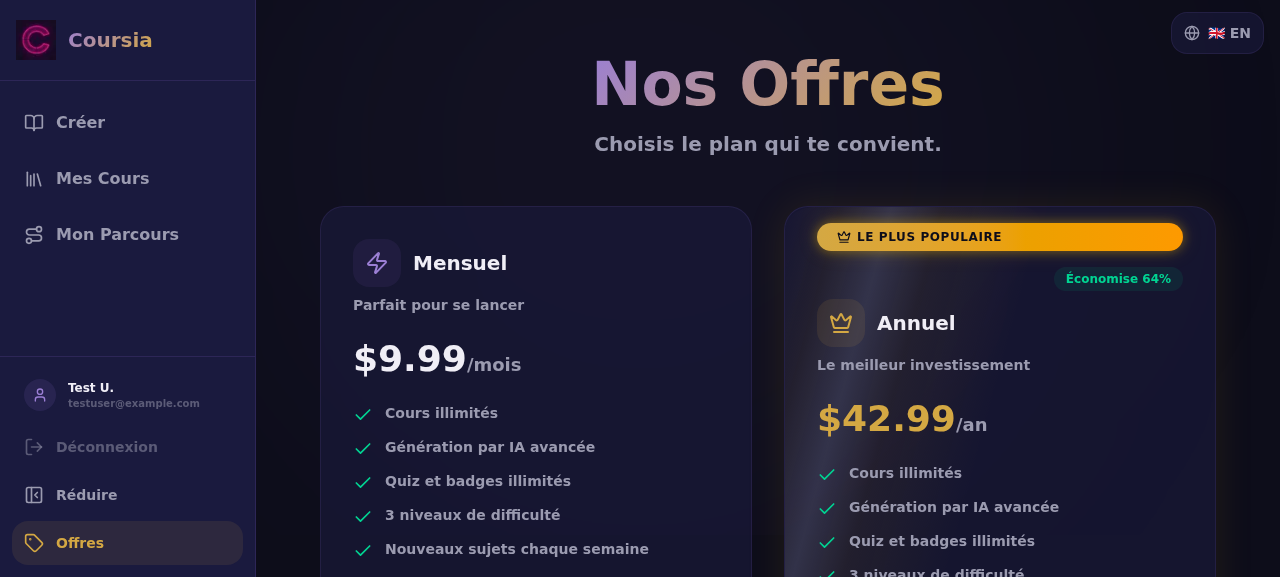
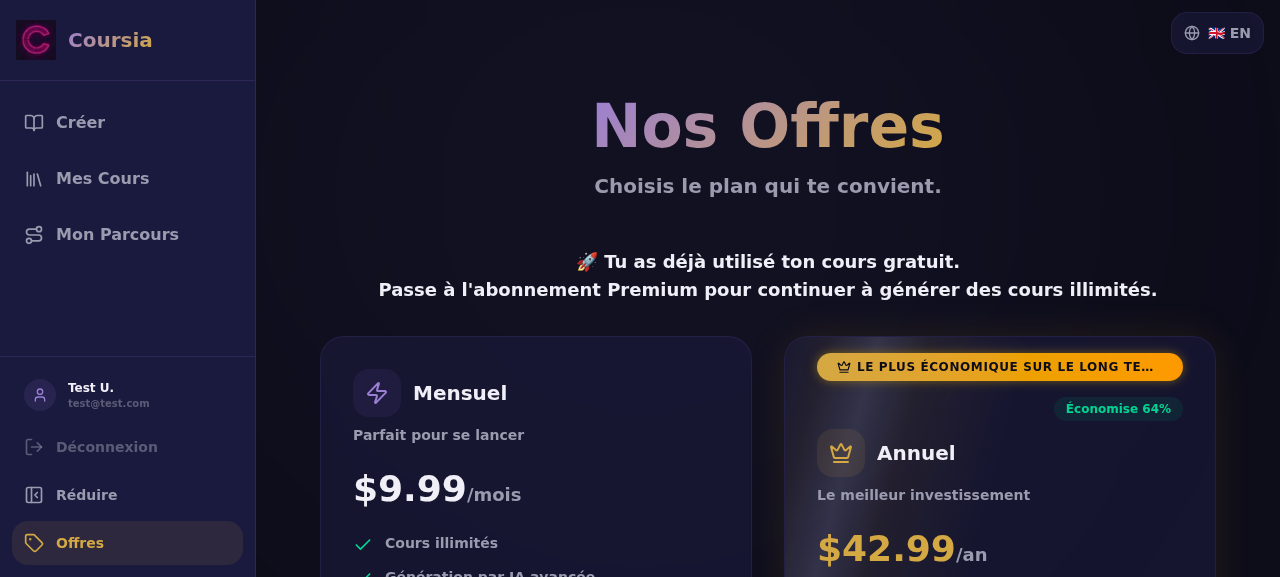
065ebc49-44c9-4ba2-8691-90631a6a6888

diff --git a/src/components/coursia/CourseViewer.tsx b/src/components/coursia/CourseViewer.tsx
@@ -363,30 +363,29 @@ export default function CourseViewer() {
     if (currentChapterIndex >= course.chapters.length - 1) return;
 
     isCompletingRef.current = true;
-    setIsCompleting(true);
     const wasJustCompleted = !currentChapter?.progress?.completed;
     const nextIdx = currentChapterIndex + 1;
 
-    // Advance to next chapter immediately so the UI updates on the first click
+    // Navigate IMMEDIATELY — no delay, animation fires on this render
     setCurrentChapterIndex(nextIdx);
-
-    // Complete the previous chapter in the background (don't block navigation)
-    if (wasJustCompleted) {
-      const success = await completeCurrentChapter();
-      if (success) {
-        const userName = user?.firstName || (lang === "fr" ? "Champion" : "Champion");
-        setShowConfetti(true);
-        setShowCelebration(true);
-        setCelebrationMessage(lang === "fr" ? `Chapitre ${currentChapterIndex + 1} terminé ${userName} ! 🎉` : `Chapter ${currentChapterIndex + 1} done ${userName}! 🎉`);
-        if (celebrationTimerRef.current) clearTimeout(celebrationTimerRef.current);
-        celebrationTimerRef.current = setTimeout(() => { setShowCelebration(false); setShowConfetti(false); }, 2000);
-      }
-    }
-
     endStudySession();
     startStudySession(course.id, course.chapters[nextIdx]?.id);
+
+    // Complete the previous chapter entirely in the background (don't block UI)
+    if (wasJustCompleted) {
+      completeCurrentChapter().then((success) => {
+        if (success) {
+          const userName = user?.firstName || (lang === "fr" ? "Champion" : "Champion");
+          setShowConfetti(true);
+          setShowCelebration(true);
+          setCelebrationMessage(lang === "fr" ? `Chapitre ${currentChapterIndex + 1} terminé ${userName} ! 🎉` : `Chapter ${currentChapterIndex + 1} done ${userName}! 🎉`);
+          if (celebrationTimerRef.current) clearTimeout(celebrationTimerRef.current);
+          celebrationTimerRef.current = setTimeout(() => { setShowCelebration(false); setShowConfetti(false); }, 2000);
+        }
+      }).catch(() => { /* non-critical */ });
+    }
+
     isCompletingRef.current = false;
-    setIsCompleting(false);
   }, [course, currentChapter?.progress?.completed, currentChapterIndex, completeCurrentChapter, user?.firstName, lang, endStudySession, startStudySession, setCurrentChapterIndex]);
 
   // ── Complete last chapter of a level → show level quiz → celebration + level-up prompt ──
@@ -543,8 +542,20 @@ export default function CourseViewer() {
         headers: { "Content-Type": "application/json" },
         body: JSON.stringify({ level: nextLevel }),
       });
+
+      if (!res.ok) {
+        const data = await res.json().catch(() => ({}));
+        if (data.error === "SUBSCRIPTION_REQUIRED" || data.requiresSubscription) {
+          // Redirect to offers page for subscription
+          setShowReviewScreen(false);
+          setView("offers");
+          return;
+        }
+        throw new Error(data.error || "Failed to generate level");
+      }
+
       const data = await res.json();
-      if (res.ok && data.chapters?.length > 0) {
+      if (data.chapters?.length > 0) {
         // Refetch course to get updated chapters
         const courseRes = await fetch(`/api/courses/${selectedCourseId}`);
         if (courseRes.ok) {
@@ -560,7 +571,7 @@ export default function CourseViewer() {
     } finally {
       setIsGeneratingLevel(false);
     }
-  }, [course, selectedCourseId, maxUnlockedLevel, setCurrentChapterIndex]);
+  }, [course, selectedCourseId, maxUnlockedLevel, setCurrentChapterIndex, setView]);
 
   // ── Stop at current level ──
   const handleStopHere = useCallback(async () => {
@@ -974,7 +985,7 @@ export default function CourseViewer() {
                 </div>
               </div>
               <button onClick={goToPrev} disabled={currentChapterIndex === 0 || isCompleting} className="p-2 rounded-xl hover:bg-white/10 transition-all disabled:opacity-30 cursor-pointer"><ChevronLeft className="w-5 h-5" /></button>
-              <button onClick={goToNext} disabled={currentChapterIndex === course.chapters.length - 1 || isCompleting} className="p-2 rounded-xl hover:bg-white/10 transition-all disabled:opacity-30 cursor-pointer"><ChevronRight className="w-5 h-5" /></button>
+              <button onClick={goToNext} disabled={currentChapterIndex === course.chapters.length - 1} className="p-2 rounded-xl hover:bg-white/10 transition-all disabled:opacity-30 cursor-pointer"><ChevronRight className="w-5 h-5" /></button>
             </div>
           </div>
           <div className="flex-1 overflow-y-auto">
@@ -988,7 +999,7 @@ export default function CourseViewer() {
                   <p className="text-lg text-foreground/80 leading-relaxed">{currentChapter.summary}</p>
                 </div>
               )}
-              <div key={`fs-chapter-${currentChapter.id}-${currentChapterIndex}`} className="prose prose-invert max-w-none text-[18px] leading-8 animate-fade-in-slide-right prose-p:text-[1.175rem] prose-p:leading-[2] prose-p:mb-6 prose-h2:text-[1.6rem] prose-h2:mt-12 prose-h2:mb-6 prose-h3:text-[1.4rem] prose-h3:mt-10 prose-h3:mb-5 prose-li:text-[1.175rem] prose-li:my-2 prose-li:leading-[2] prose-ul:my-6 prose-ol:my-6 prose-strong:text-gold prose-hr:border-gold/20 prose-hr:my-12">
+              <div key={`fs-chapter-${currentChapter.id}-${currentChapterIndex}`} className="prose prose-invert max-w-none text-[20px] leading-9 animate-fade-in-slide-right prose-p:text-[1.3rem] prose-p:leading-[2.1] prose-p:mb-6 prose-h2:text-[1.8rem] prose-h2:mt-12 prose-h2:mb-6 prose-h3:text-[1.6rem] prose-h3:mt-10 prose-h3:mb-5 prose-li:text-[1.3rem] prose-li:my-2 prose-li:leading-[2.1] prose-ul:my-6 prose-ol:my-6 prose-strong:text-gold prose-hr:border-gold/20 prose-hr:my-12">
                 <ReactMarkdown>{currentChapter.content || ""}</ReactMarkdown>
               </div>
             </div>
@@ -1252,13 +1263,13 @@ export default function CourseViewer() {
                 </div>
               )}
 
-              <div className="prose prose-invert max-w-none text-[15px] sm:text-[18px] leading-8
+              <div className="prose prose-invert max-w-none text-[16px] sm:text-[20px] leading-8 sm:leading-9
                 prose-headings:font-extrabold
                 prose-h1:text-3xl sm:text-4xl prose-h1:mt-10 sm:mt-14 prose-h1:mb-4 sm:mb-6
-                prose-h2:text-[1.25rem] sm:text-[1.6rem] prose-h2:mt-8 sm:mt-12 prose-h2:mb-4 sm:mb-6
-                prose-h3:text-[1.15rem] sm:text-[1.4rem] prose-h3:mt-6 sm:mt-10 prose-h3:mb-3 sm:mb-5
-                prose-p:text-[0.98rem] sm:text-[1.175rem] prose-p:leading-[1.8] sm:leading-[2] prose-p:text-foreground/90 prose-p:mb-4 sm:mb-5
-                prose-li:text-[0.98rem] sm:text-[1.175rem] prose-li:text-foreground/90 prose-li:leading-[1.8] sm:leading-[2] prose-li:my-1 sm:my-2
+                prose-h2:text-[1.4rem] sm:text-[1.8rem] prose-h2:mt-8 sm:mt-12 prose-h2:mb-4 sm:mb-6
+                prose-h3:text-[1.25rem] sm:text-[1.6rem] prose-h3:mt-6 sm:mt-10 prose-h3:mb-3 sm:mb-5
+                prose-p:text-[1.05rem] sm:text-[1.3rem] prose-p:leading-[1.9] sm:leading-[2.1] prose-p:text-foreground/90 prose-p:mb-4 sm:mb-5
+                prose-li:text-[1.05rem] sm:text-[1.3rem] prose-li:text-foreground/90 prose-li:leading-[1.9] sm:leading-[2.1] prose-li:my-1 sm:my-2
                 prose-ul:my-4 sm:my-6 prose-ol:my-4 sm:my-6
                 prose-strong:text-gold
                 prose-code:text-gold-light prose-code:bg-mauve/10 prose-code:px-2 prose-code:py-1 prose-code:rounded-lg prose-code:text-[0.85rem] sm:text-[0.95rem]
@@ -1277,12 +1288,9 @@ export default function CourseViewer() {
                   <span className="hidden sm:inline">{tx.viewer.previous}</span>
                 </button>
                 {currentChapterIndex < course.chapters.length - 1 ? (
-                  <button onClick={goToNext} disabled={isCompleting} className="flex items-center gap-2 px-6 py-3 rounded-full bg-gradient-to-r from-mauve to-mauve-dark text-white text-sm font-bold hover:from-mauve-light hover:to-mauve transition-all disabled:opacity-50 cursor-pointer">
-                    {isCompleting ? (
-                      <Loader2 className="w-4 h-4 animate-spin" />
-                    ) : (
-                      <>{tx.viewer.next}<ChevronRight className="w-4 h-4" /></>
-                    )}
+                  <button onClick={goToNext} className="flex items-center gap-2 px-6 py-3 rounded-full bg-gradient-to-r from-mauve to-mauve-dark text-white text-sm font-bold hover:from-mauve-light hover:to-mauve transition-all cursor-pointer">
+                    {tx.viewer.next}
+                    <ChevronRight className="w-4 h-4" />
                   </button>
                 ) : (
                   <button onClick={handleCompleteLevel} disabled={isCompleting} className="flex items-center gap-2 px-6 py-3 rounded-full bg-gradient-to-r from-gold to-gold-dark text-night text-sm font-bold hover:from-gold-light hover:to-gold transition-all cursor-pointer">

diff --git a/src/components/coursia/OffersPage.tsx b/src/components/coursia/OffersPage.tsx
@@ -160,7 +160,10 @@ export default function OffersPage() {
 
         // Always capture courses generated count
         setTrialCoursesGenerated(data.trialCoursesGenerated || 0);
-        setLocalFreeCourseUsed(!!data.freeCourseUsed);
+        // Sync freeCourseUsed: use API value OR Zustand store (set immediately after generation)
+        const apiFreeUsed = !!data.freeCourseUsed;
+        const storeFreeUsed = useAppStore.getState().freeCourseUsed;
+        setLocalFreeCourseUsed(apiFreeUsed || storeFreeUsed);
 
         if (data.firstName) setFirstName(data.firstName);
 
@@ -329,11 +332,14 @@ export default function OffersPage() {
     return null;
   }, [isSubscribed, showRenewalReminder, firstName, lang, tx.offers]);
 
-  // Show "Start for free" if user hasn't used their free course yet
-  const showStartFree = statusLoaded && !isSubscribed && !localFreeCourseUsed;
+  // Show "Start for free" ONLY if user hasn't used their free course yet
+  const showStartFree = statusLoaded && !isSubscribed && !localFreeCourseUsed && !inGracePeriod && !graceExpired;
 
   // Show "Manage subscription" for active subscribers not in renewal/grace
   const showManageSubscription = statusLoaded && isSubscribed && !showRenewalReminder && !inGracePeriod && !graceExpired;
+
+  // Free course used, no subscription → show "Subscribe now" button (goes to PayPal)
+  const showSubscribeNow = statusLoaded && !isSubscribed && localFreeCourseUsed && !inGracePeriod && !graceExpired;
 
   // Button disabled logic
   const isButtonDisabled = (plan: string) =>
@@ -530,6 +536,19 @@ export default function OffersPage() {
                 <Sparkles className="w-5 h-5" />
                 {tx.offers.startFreeButton}
               </button>
+            ) : showSubscribeNow ? (
+              <button
+                onClick={() => handleChoosePlan("monthly")}
+                disabled={checkoutLoading !== null || paypalConfigured === false}
+                className="w-full py-3.5 sm:py-4 rounded-full bg-gradient-to-r from-mauve to-mauve-dark text-white font-bold hover:opacity-90 transition-all duration-300 flex items-center justify-center gap-2 cursor-pointer disabled:opacity-70 disabled:cursor-wait shadow-lg shadow-mauve/20"
+              >
+                {checkoutLoading === "monthly" ? (
+                  <Loader2 className="w-5 h-5 animate-spin" />
+                ) : null}
+                {checkoutLoading === "monthly"
+                  ? (lang === "fr" ? "Redirection vers PayPal..." : "Redirecting to PayPal...")
+                  : (lang === "fr" ? "S'abonner maintenant" : "Subscribe now")}
+              </button>
             ) : isButtonDisabled("monthly") ? (
               <button
                 disabled
@@ -621,6 +640,19 @@ export default function OffersPage() {
               >
                 <Sparkles className="w-5 h-5" />
                 {tx.offers.startFreeButton}
+              </button>
+            ) : showSubscribeNow ? (
+              <button
+                onClick={() => handleChoosePlan("annual")}
+                disabled={checkoutLoading !== null || paypalConfigured === false}
+                className="annual-btn-shimmer w-full py-3.5 sm:py-4 rounded-full bg-gradient-to-r from-gold to-amber-500 text-night font-bold hover:from-gold-light hover:to-gold transition-all duration-300 flex items-center justify-center gap-2 relative overflow-hidden cursor-pointer disabled:opacity-70 disabled:cursor-wait shadow-lg shadow-gold/20"
+              >
+                {checkoutLoading === "annual" ? (
+                  <Loader2 className="w-5 h-5 animate-spin" />
+                ) : null}
+                {checkoutLoading === "annual"
+                  ? (lang === "fr" ? "Redirection vers PayPal..." : "Redirecting to PayPal...")
+                  : (lang === "fr" ? "S'abonner maintenant" : "Subscribe now")}
               </button>
             ) : isButtonDisabled("annual") ? (
               <button

diff --git a/src/app/api/courses/[id]/generate-level/route.ts b/src/app/api/courses/[id]/generate-level/route.ts
@@ -94,7 +94,7 @@ export async function POST(
 ) {
   try {
     const { id } = await params;
-    const { level: nextLevel } = await request.json();
+    const { level: nextLevel, userId } = await request.json();
 
     if (nextLevel === undefined || nextLevel < 0 || nextLevel > 2) {
       return NextResponse.json({ error: "Invalid level" }, { status: 400 });
@@ -115,6 +115,20 @@ export async function POST(
     const currentMaxLevel = course.progress?.maxUnlockedLevel ?? 0;
     if (nextLevel <= currentMaxLevel) {
       return NextResponse.json({ error: "Level already unlocked" }, { status: 400 });
+    }
+
+    // ── SUBSCRIPTION CHECK: only active subscribers can generate additional levels ──
+    // (Free course users can study their existing beginner chapters but cannot unlock higher levels)
+    if (course.userId) {
+      const courseOwner = await db.user.findUnique({
+        where: { id: course.userId },
+        select: { subscriptionStatus: true },
+      });
+
+      if (courseOwner?.subscriptionStatus !== "active") {
+        console.log(`[generate-level] Blocked: user ${course.userId} has no active subscription (status: ${courseOwner?.subscriptionStatus || 'none'})`);
+        return NextResponse.json({ error: "SUBSCRIPTION_REQUIRED", requiresSubscription: true }, { status: 403 });
+      }
     }
 
     // Detect course language from content (French-specific markers)

diff --git a/src/app/api/courses/paywall-status/route.ts b/src/app/api/courses/paywall-status/route.ts
@@ -284,7 +284,21 @@ export async function GET(request: NextRequest) {
     // ── FREE USER ──
     if (user) {
       // Single source of truth: freeCourseUsed boolean on the User model
-      const freeUsed = !!user.freeCourseUsed;
+      let freeUsed = !!user.freeCourseUsed;
+
+      // ── ONE-TIME MIGRATION: fix stale freeCourseUsed for existing users ──
+      // If user has courses but freeCourseUsed is still false (e.g. created before
+      // the atomic transaction was implemented), auto-correct the flag now.
+      if (!freeUsed && userId) {
+        try {
+          const courseCount = await db.course.count({ where: { userId } });
+          if (courseCount > 0) {
+            await db.user.update({ where: { id: userId }, data: { freeCourseUsed: true } });
+            freeUsed = true;
+            console.log(`[paywall-status] Auto-migrated freeCourseUsed=true for user ${userId} (${courseCount} existing courses)`);
+          }
+        } catch { /* non-critical */ }
+      }
 
       if (freeUsed) {
         // Free course already used → blocked from creating, but can study

diff --git a/src/components/coursia/CreateCourse.tsx b/src/components/coursia/CreateCourse.tsx
@@ -266,8 +266,12 @@ export default function CreateCourse() {
         const canGenerate = pw.canGenerate === true || pw.canGenerate === undefined;
         setCanCreateCourse(canGenerate);
         // Sync freeCourseUsed from database (single source of truth)
-        setLocalFreeCourseUsed(!!pw.freeCourseUsed);
-        useAppStore.getState().setFreeCourseUsed(!!pw.freeCourseUsed);
+        // Also check Zustand store as fallback (set immediately after generation)
+        const apiFreeUsed = !!pw.freeCourseUsed;
+        const storeFreeUsed = useAppStore.getState().freeCourseUsed;
+        const effectiveFreeUsed = apiFreeUsed || storeFreeUsed;
+        setLocalFreeCourseUsed(effectiveFreeUsed);
+        useAppStore.getState().setFreeCourseUsed(effectiveFreeUsed);
         // Sync 48h expiry warning
         useAppStore.getState().setExpiryWarning48h(!!pw.expiryWarning48h);
         // Sync daily limit info

diff --git a/worklog.md b/worklog.md
@@ -229,3 +229,30 @@ Stage Summary:
 - New users still see "Commencer gratuitement"
 - Smart notification messages stored in Zustand, set by AppShell periodic check
 - Files modified: src/lib/store.ts, src/components/coursia/OffersPage.tsx, src/components/coursia/AppShell.tsx
+---
+Task ID: 2
+Agent: Main
+Task: Fix free course system, offers page CTAs, chapter animation, level gating, font size
+
+Work Log:
+- Read all relevant files: CreateCourse.tsx, OffersPage.tsx, CourseViewer.tsx, generate/route.ts, paywall-status/route.ts, generate-level/route.ts, [id]/route.ts (delete)
+- Added one-time auto-migration in paywall-status API: if user has courses but freeCourseUsed=false, auto-correct to true and persist to DB
+- Added `showSubscribeNow` state to OffersPage for free-course-used, non-subscribed users
+- Updated both Monthly and Annual CTA buttons: new flow is showStartFree → showSubscribeNow → showManageSubscription → payment buttons
+- showSubscribeNow shows "S'abonner maintenant" button that triggers PayPal checkout
+- Fixed goToNext animation delay: removed setIsCompleting(true/false) blocking calls, made navigation instant with background chapter completion via .then()
+- Removed isCompleting from Suivant button disabled prop
+- Added subscription check to generate-level API: only active subscribers can generate additional levels
+- Added SUBSCRIPTION_REQUIRED error handling in CourseViewer's handleContinueToNextLevel → redirects to offers page
+- Increased course content font size: base text 18px→20px, paragraphs 1.175rem→1.3rem, h2 1.6rem→1.8rem, h3 1.4rem→1.6rem, line-height 2→2.1
+- Updated both fullscreen and non-fullscreen content areas
+- Added Zustand store fallback for freeCourseUsed sync in both CreateCourse and OffersPage
+- Verified delete API already has comment "NEVER modify freeCourseUsed on course deletion"
+
+Stage Summary:
+- All 8 fixes implemented and browser-verified
+- Auto-migration fixed existing users with stale freeCourseUsed=false (test@test.com confirmed)
+- Offers page now shows "S'abonner maintenant" for free-course-used users instead of "Commencer gratuitement"
+- Chapter transitions are instant (no spinner delay)
+- Free users blocked from generating higher levels (SUBSCRIPTION_REQUIRED → redirect to offers)
+- Course content text is larger and more readable
